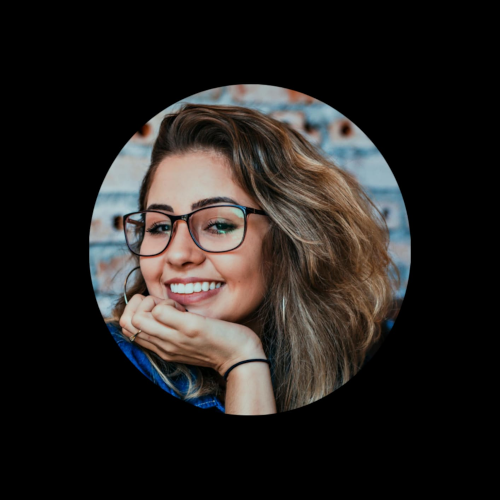
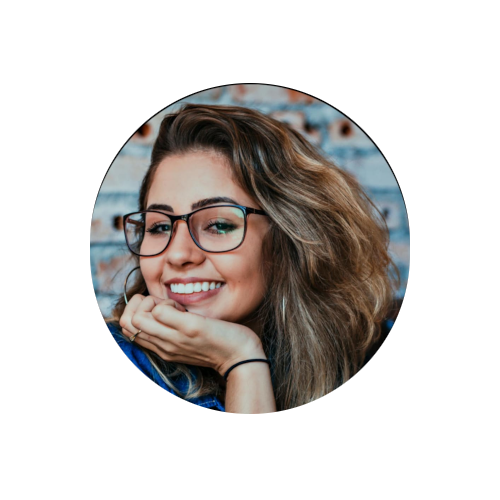
atualisando meu exercicio de verificador de idade

diff --git a/aula12ex/ex015/estilo.css b/aula12ex/ex015/estilo.css
@@ -9,8 +9,7 @@ color: white;
 text-align: center;
 }
 section{
-background: rgb(0, 0, 0);
-color: white;
+background: rgb(255, 255, 255);
 border-radius: 10px;
 padding: 15px;
 width: 500px;
